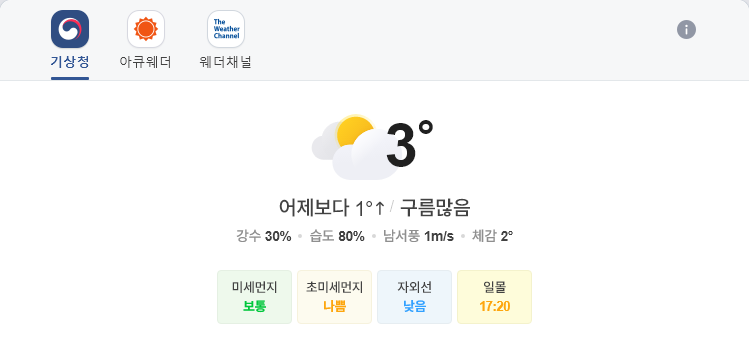
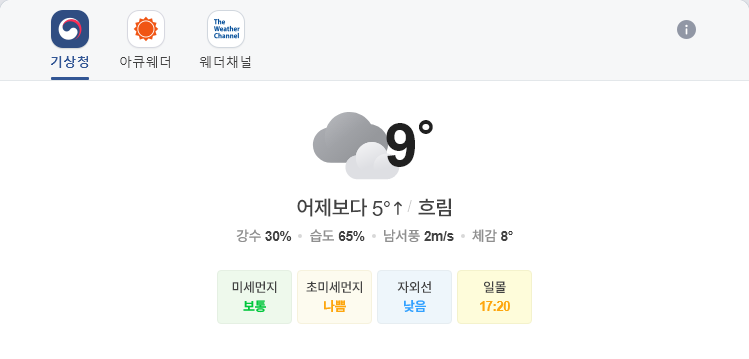
update result

diff --git a/README.md b/README.md
@@ -1,13 +1,13 @@
-##  2020-12-23 09:16:45   수요일 
-##### 날씨   -   어제보다 1° 높아요구름많음  
+##  2020-12-23 16:02:58   수요일 
+##### 날씨   -   어제보다 5° 높아요흐림  
 <center><img src="../img/naver_weather_week.png"></center>
 ----
 ----
 ##### 지수
 <table border="1" bordercolor="blue" align = "center" >
 <tr align = "right" > <td>Item</td><td>Point</td><td>Diff</td><td>Rate</td><td>Buy</td><td>Sell</td><td>...</td>  </tr>
-<tr align = "right" > <td>KOSPI</td><td>2,749.22</td><td>15.54</td><td><font size="3" color="red" >0.57%</font> </td><td><font size="3" color="black">2,000</font></td><td><font size="3" color="black">3,000</font></td><td>0</td>  </tr>
-<tr align = "right" > <td>KOSDAQ</td><td>938.17</td><td>9.44</td><td><font size="3" color="red" >1.02%</font> </td><td><font size="3" color="black">0</font></td><td><font size="3" color="black">0</font></td><td>0</td>  </tr>
+<tr align = "right" > <td>KOSPI</td><td>2,759.82</td><td>26.14</td><td><font size="3" color="red" >0.96%</font> </td><td><font size="3" color="black">2,000</font></td><td><font size="3" color="black">3,000</font></td><td>0</td>  </tr>
+<tr align = "right" > <td>KOSDAQ</td><td>923.17</td><td>-5.56</td><td><font size="3" color="blue" >-0.6%</font> </td><td><font size="3" color="black">0</font></td><td><font size="3" color="black">0</font></td><td>0</td>  </tr>
 </table>
 ----
 ##### 세계
@@ -16,38 +16,38 @@
 <tr align = "right" > <td>DOW</td><td>30,015.51</td><td>-200.94</td><td><font size="3" color="blue" >-0.67%</font></td><td><font size="3" color="black">0</font></td><td><font size="3" color="black">0</font></td><td>0</td>  </tr>
 <tr align = "right" > <td>NASDAQ</td><td>12,807.92</td><td>65.4</td><td><font size="3" color="red" >0.51%</font></td><td><font size="3" color="black">0</font></td><td><font size="3" color="black">0</font></td><td>0</td>  </tr>
 <tr align = "right" > <td>S&P</td><td>3,687.26</td><td>-7.66</td><td><font size="3" color="blue" >-0.21%</font></td><td><font size="3" color="black">0</font></td><td><font size="3" color="black">0</font></td><td>0</td>  </tr>
-<tr align = "right" > <td>SHANHAI</td><td>3,356.78</td><td>-63.79</td><td><font size="3" color="blue" >-1.86%</font></td><td><font size="3" color="black">0</font></td><td><font size="3" color="black">0</font></td><td>0</td>  </tr>
-<tr align = "right" > <td>INDIA</td><td>46,006.69</td><td>452.73</td><td><font size="3" color="red" >0.99%</font></td><td><font size="3" color="black">0</font></td><td><font size="3" color="black">0</font></td><td>0</td>  </tr>
+<tr align = "right" > <td>SHANHAI</td><td>3,380.22</td><td>23.43</td><td><font size="3" color="red" >0.7%</font></td><td><font size="3" color="black">0</font></td><td><font size="3" color="black">0</font></td><td>0</td>  </tr>
+<tr align = "right" > <td>INDIA</td><td>46,290.24</td><td>283.55</td><td><font size="3" color="red" >0.62%</font></td><td><font size="3" color="black">0</font></td><td><font size="3" color="black">0</font></td><td>0</td>  </tr>
 </table>
 ----
 ##### 시장
 <table border="1" bordercolor="blue" align = "center" >
 <tr align = "right" > <td>Item</td><td>Price</td><td>Diff</td><td>Rate</td><td>Buy</td><td>Sell</td><td>...</td>  </tr>
-<tr align = "right" > <td>USD</td><td>1,108.0</td><td>2.2</td><td><font size="3" color="red">0.2%</font></td><td><font size="3" color="orangered">1,110</font></td><td><font size="3" color="black">0</font></td><td>0</td>  </tr>
+<tr align = "right" > <td>USD</td><td>1,107.0</td><td>1.0</td><td><font size="3" color="red">0.09%</font></td><td><font size="3" color="orangered">1,110</font></td><td><font size="3" color="black">0</font></td><td>0</td>  </tr>
 <tr align = "right" > <td>WTI</td><td>47.02</td><td>-0.95</td><td><font size="3" color="blue">-1.98%</font></td><td><font size="3" color="black">29.0</font></td><td><font size="3" color="black">0</font></td><td>0</td>  </tr>
-<tr align = "right" > <td>GOLD</td><td>1,866.0</td><td>-12.6</td><td><font size="3" color="blue">-0.67%</font></td><td><font size="3" color="black">0</font></td><td><font size="3" color="black">0</font></td><td>0</td>  </tr>
+<tr align = "right" > <td>GOLD</td><td>1,867.0</td><td>-12.6</td><td><font size="3" color="blue">-0.67%</font></td><td><font size="3" color="black">0</font></td><td><font size="3" color="black">0</font></td><td>0</td>  </tr>
 </table>
 ----
 ##### 주가
 <table border="1" bordercolor="blue" align = "center" >
 <tr align = "right" > <td>Item</td><td>Price</td><td>Diff</td><td>Rate</td><td>Purchased</td><td>Sell</td><td>Buy</td>  </tr>
-<tr align = "right" > <td>한국 전력</td><td>27,400</td><td>600</td><td><font size="3" color="red">2.24%</font></td><td>25,720</td><td><font size="3" color="black">30,000</font></td><td><font size="3" color="black">14,000</font></td>  </tr>
-<tr align = "right" > <td>삼성엔지니어.</td><td>13,000</td><td>400</td><td><font size="3" color="red">3.17%</font></td><td>18,935</td><td><font size="3" color="black">20,000</font></td><td><font size="3" color="black">8,000</font></td>  </tr>
-<tr align = "right" > <td>CJ CGV</td><td>23,300</td><td>0</td><td><font size="3" color="black">0.0%</font></td><td>34,895</td><td><font size="3" color="black">36,000</font></td><td><font size="3" color="black">0</font></td>  </tr>
-<tr align = "right" > <td>아모레퍼시픽</td><td>202,500</td><td>0</td><td><font size="3" color="black">0.0%</font></td><td>235,350</td><td><font size="3" color="black">240,000</font></td><td><font size="3" color="black">130,000</font></td>  </tr>
-<tr align = "right" > <td>한화</td><td>26,350</td><td>150</td><td><font size="3" color="red">0.57%</font></td><td>25,550</td><td><font size="3" color="black">30,000</font></td><td><font size="3" color="black">20,000</font></td>  </tr>
-<tr align = "right" > <td>NAVER</td><td>287,500</td><td>3,500</td><td><font size="3" color="red">1.23%</font></td><td>147,200</td><td><font size="3" color="black">400,000</font></td><td><font size="3" color="black">286,000</font></td>  </tr>
-<tr align = "right" > <td>LG 화학우</td><td>377,500</td><td>0</td><td><font size="3" color="black">0.0%</font></td><td>202,490</td><td><font size="3" color="black">500,000</font></td><td><font size="3" color="orangered">384,000</font></td>  </tr>
-<tr align = "right" > <td>스튜디오드래.</td><td>90,400</td><td>2,300</td><td><font size="3" color="red">2.61%</font></td><td>81,243</td><td><font size="3" color="black">100,000</font></td><td><font size="3" color="black">78,000</font></td>  </tr>
-<tr align = "right" > <td>글로벌럭셔리</td><td>14,800</td><td>30</td><td><font size="3" color="red">0.2%</font></td><td>0</td><td><font size="3" color="black">15,000</font></td><td><font size="3" color="black">10,000</font></td>  </tr>
+<tr align = "right" > <td>한국 전력</td><td>26,800</td><td>0</td><td><font size="3" color="black">0.0%</font></td><td>25,720</td><td><font size="3" color="black">30,000</font></td><td><font size="3" color="black">14,000</font></td>  </tr>
+<tr align = "right" > <td>삼성엔지니어.</td><td>12,700</td><td>100</td><td><font size="3" color="red">0.79%</font></td><td>18,935</td><td><font size="3" color="black">20,000</font></td><td><font size="3" color="black">8,000</font></td>  </tr>
+<tr align = "right" > <td>CJ CGV</td><td>23,100</td><td>-200</td><td><font size="3" color="blue">-0.86%</font></td><td>34,895</td><td><font size="3" color="black">36,000</font></td><td><font size="3" color="black">0</font></td>  </tr>
+<tr align = "right" > <td>아모레퍼시픽</td><td>199,500</td><td>-3,000</td><td><font size="3" color="blue">-1.48%</font></td><td>235,350</td><td><font size="3" color="black">240,000</font></td><td><font size="3" color="black">130,000</font></td>  </tr>
+<tr align = "right" > <td>한화</td><td>26,800</td><td>600</td><td><font size="3" color="red">2.29%</font></td><td>25,550</td><td><font size="3" color="black">30,000</font></td><td><font size="3" color="black">20,000</font></td>  </tr>
+<tr align = "right" > <td>NAVER</td><td>284,000</td><td>0</td><td><font size="3" color="black">0.0%</font></td><td>147,200</td><td><font size="3" color="black">400,000</font></td><td><font size="3" color="orangered">286,000</font></td>  </tr>
+<tr align = "right" > <td>LG 화학우</td><td>378,000</td><td>500</td><td><font size="3" color="red">0.13%</font></td><td>202,490</td><td><font size="3" color="black">500,000</font></td><td><font size="3" color="orangered">384,000</font></td>  </tr>
+<tr align = "right" > <td>스튜디오드래.</td><td>88,900</td><td>800</td><td><font size="3" color="red">0.91%</font></td><td>81,243</td><td><font size="3" color="black">100,000</font></td><td><font size="3" color="black">78,000</font></td>  </tr>
+<tr align = "right" > <td>글로벌럭셔리</td><td>14,785</td><td>15</td><td><font size="3" color="red">0.1%</font></td><td>0</td><td><font size="3" color="black">15,000</font></td><td><font size="3" color="black">10,000</font></td>  </tr>
 <tr align = "right" > <td>QV미국IT</td><td>25,120</td><td>185</td><td><font size="3" color="red">0.74%</font></td><td>0</td><td><font size="3" color="black">30,000</font></td><td><font size="3" color="black">20,000</font></td>  </tr>
-<tr align = "right" > <td>호텔 신라</td><td>80,100</td><td>-300</td><td><font size="3" color="blue">-0.37%</font></td><td>72,800</td><td><font size="3" color="black">100,000</font></td><td><font size="3" color="black">70,000</font></td>  </tr>
-<tr align = "right" > <td>S-Oil</td><td>69,300</td><td>0</td><td><font size="3" color="black">0.0%</font></td><td>62,842</td><td><font size="3" color="black">100,000</font></td><td><font size="3" color="black">50,000</font></td>  </tr>
-<tr align = "right" > <td>LG전자</td><td>93,100</td><td>900</td><td><font size="3" color="red">0.98%</font></td><td>82,022</td><td><font size="3" color="black">100,000</font></td><td><font size="3" color="black">60,000</font></td>  </tr>
-<tr align = "right" > <td>지역난방공사</td><td>40,050</td><td>0</td><td><font size="3" color="black">0.0%</font></td><td>43,590</td><td><font size="3" color="black">60,000</font></td><td><font size="3" color="black">30,000</font></td>  </tr>
-<tr align = "right" > <td>KOEDX은행</td><td>6,130</td><td>-30</td><td><font size="3" color="blue">-0.49%</font></td><td>5,178</td><td><font size="3" color="black">6,000</font></td><td><font size="3" color="black">4,500</font></td>  </tr>
-<tr align = "right" > <td>삼성 전자우</td><td>68,900</td><td>400</td><td><font size="3" color="red">0.58%</font></td><td>48,250</td><td><font size="3" color="black">56,000</font></td><td><font size="3" color="black">45,000</font></td>  </tr>
-<tr align = "right" > <td>한화에어로스.</td><td>27,600</td><td>-50</td><td><font size="3" color="blue">-0.18%</font></td><td>25,700</td><td><font size="3" color="black">30,000</font></td><td><font size="3" color="black">24,000</font></td>  </tr>
-<tr align = "right" > <td>한국금융지주</td><td>78,800</td><td>1,700</td><td><font size="3" color="red">2.2%</font></td><td>0</td><td><font size="3" color="black">82,000</font></td><td><font size="3" color="black">60,000</font></td>  </tr>
+<tr align = "right" > <td>호텔 신라</td><td>79,700</td><td>-700</td><td><font size="3" color="blue">-0.87%</font></td><td>72,800</td><td><font size="3" color="black">100,000</font></td><td><font size="3" color="black">70,000</font></td>  </tr>
+<tr align = "right" > <td>S-Oil</td><td>67,700</td><td>-1,600</td><td><font size="3" color="blue">-2.31%</font></td><td>62,842</td><td><font size="3" color="black">100,000</font></td><td><font size="3" color="black">50,000</font></td>  </tr>
+<tr align = "right" > <td>LG전자</td><td>119,500</td><td>27,300</td><td><font size="3" color="red">29.61%</font></td><td>82,022</td><td><font size="3" color="black">100,000</font></td><td><font size="3" color="black">60,000</font></td>  </tr>
+<tr align = "right" > <td>지역난방공사</td><td>40,200</td><td>150</td><td><font size="3" color="red">0.37%</font></td><td>43,590</td><td><font size="3" color="black">60,000</font></td><td><font size="3" color="black">30,000</font></td>  </tr>
+<tr align = "right" > <td>KOEDX은행</td><td>6,120</td><td>-40</td><td><font size="3" color="blue">-0.65%</font></td><td>5,178</td><td><font size="3" color="black">6,000</font></td><td><font size="3" color="black">4,500</font></td>  </tr>
+<tr align = "right" > <td>삼성 전자우</td><td>69,900</td><td>1,400</td><td><font size="3" color="red">2.04%</font></td><td>48,250</td><td><font size="3" color="black">56,000</font></td><td><font size="3" color="black">45,000</font></td>  </tr>
+<tr align = "right" > <td>한화에어로스.</td><td>27,700</td><td>50</td><td><font size="3" color="red">0.18%</font></td><td>25,700</td><td><font size="3" color="black">30,000</font></td><td><font size="3" color="black">24,000</font></td>  </tr>
+<tr align = "right" > <td>한국금융지주</td><td>79,300</td><td>2,200</td><td><font size="3" color="red">2.85%</font></td><td>0</td><td><font size="3" color="black">82,000</font></td><td><font size="3" color="black">60,000</font></td>  </tr>
 </table>
 ----
